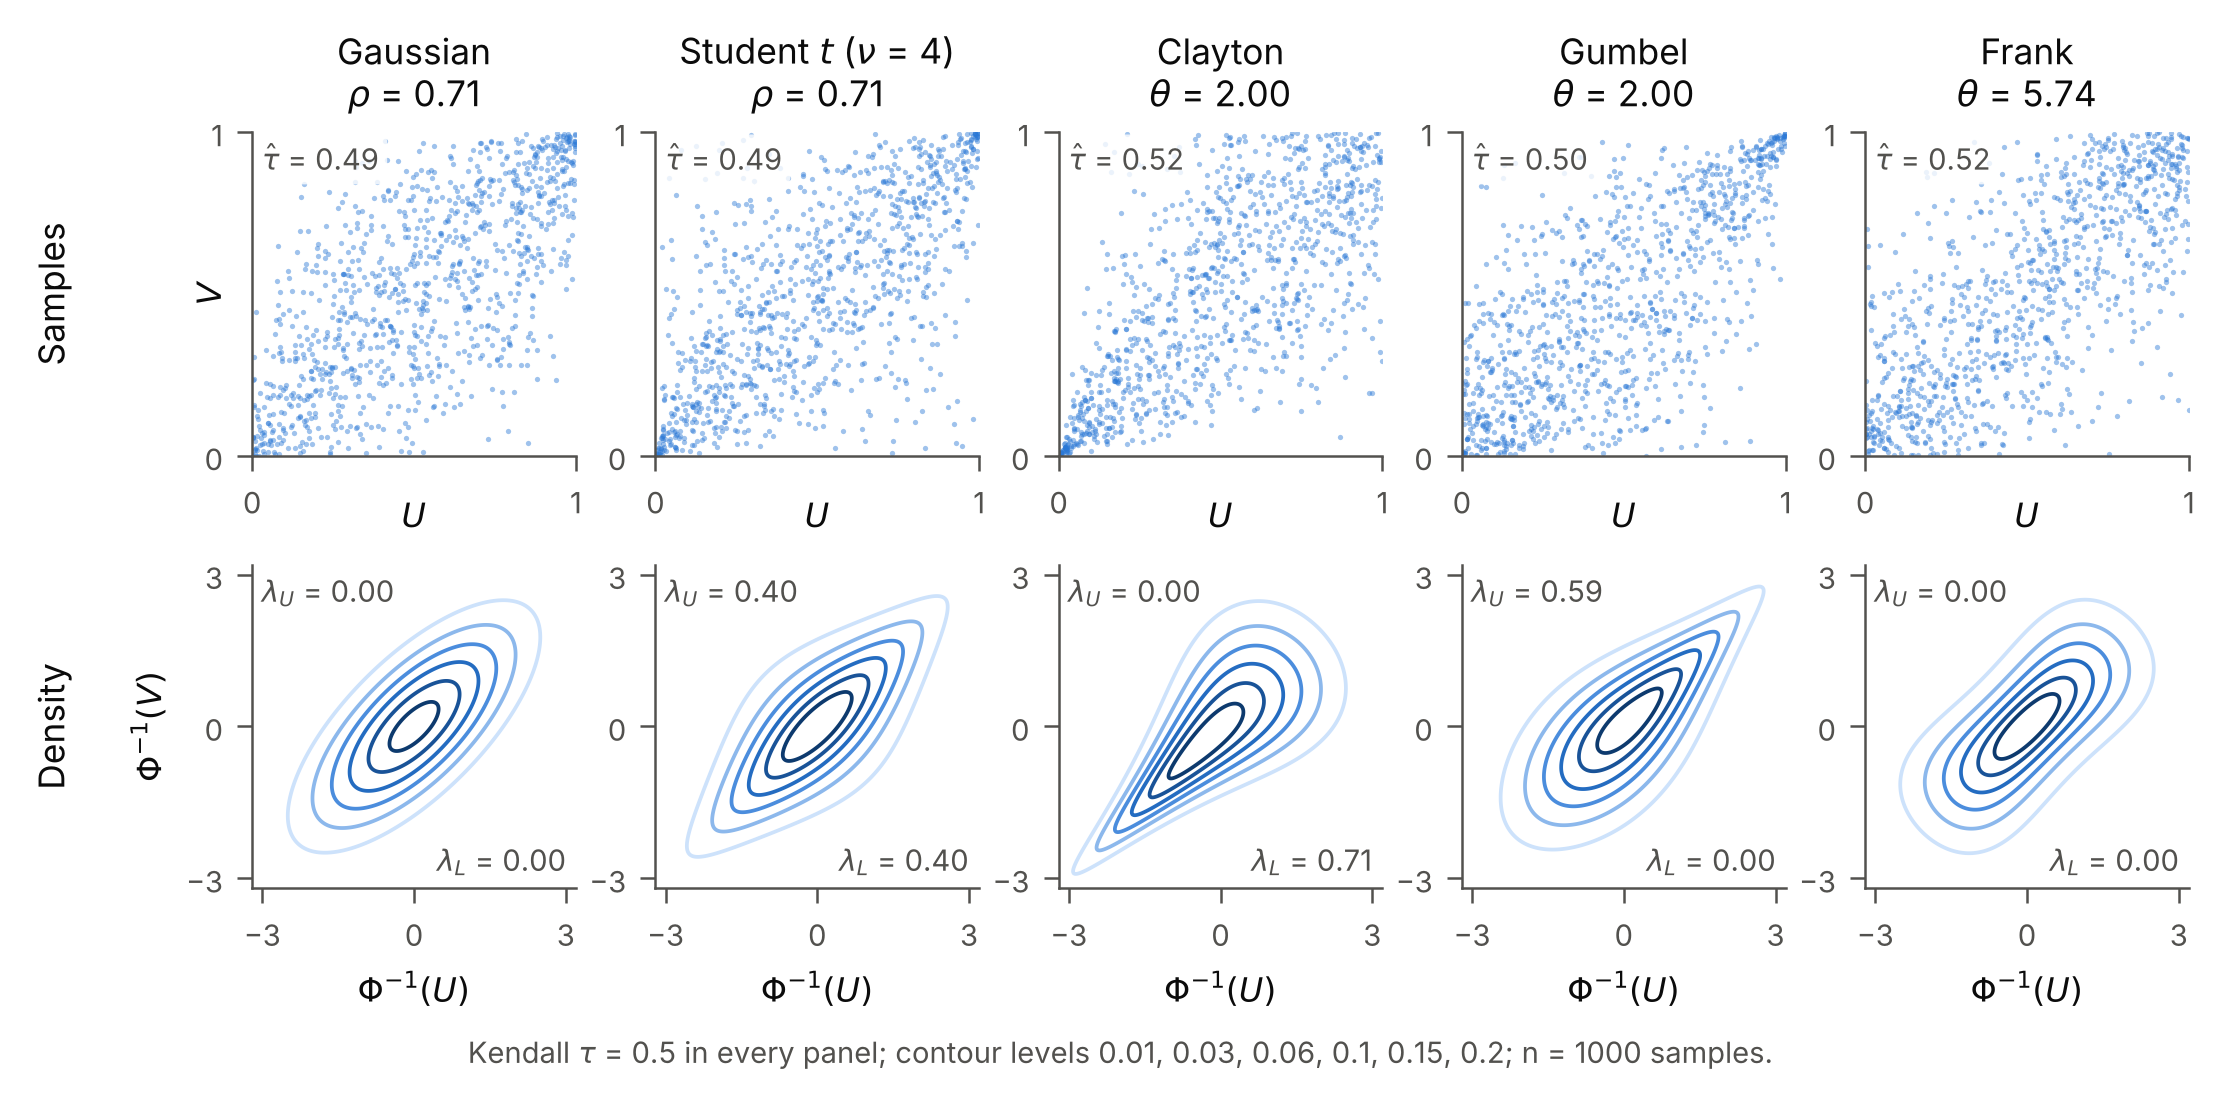
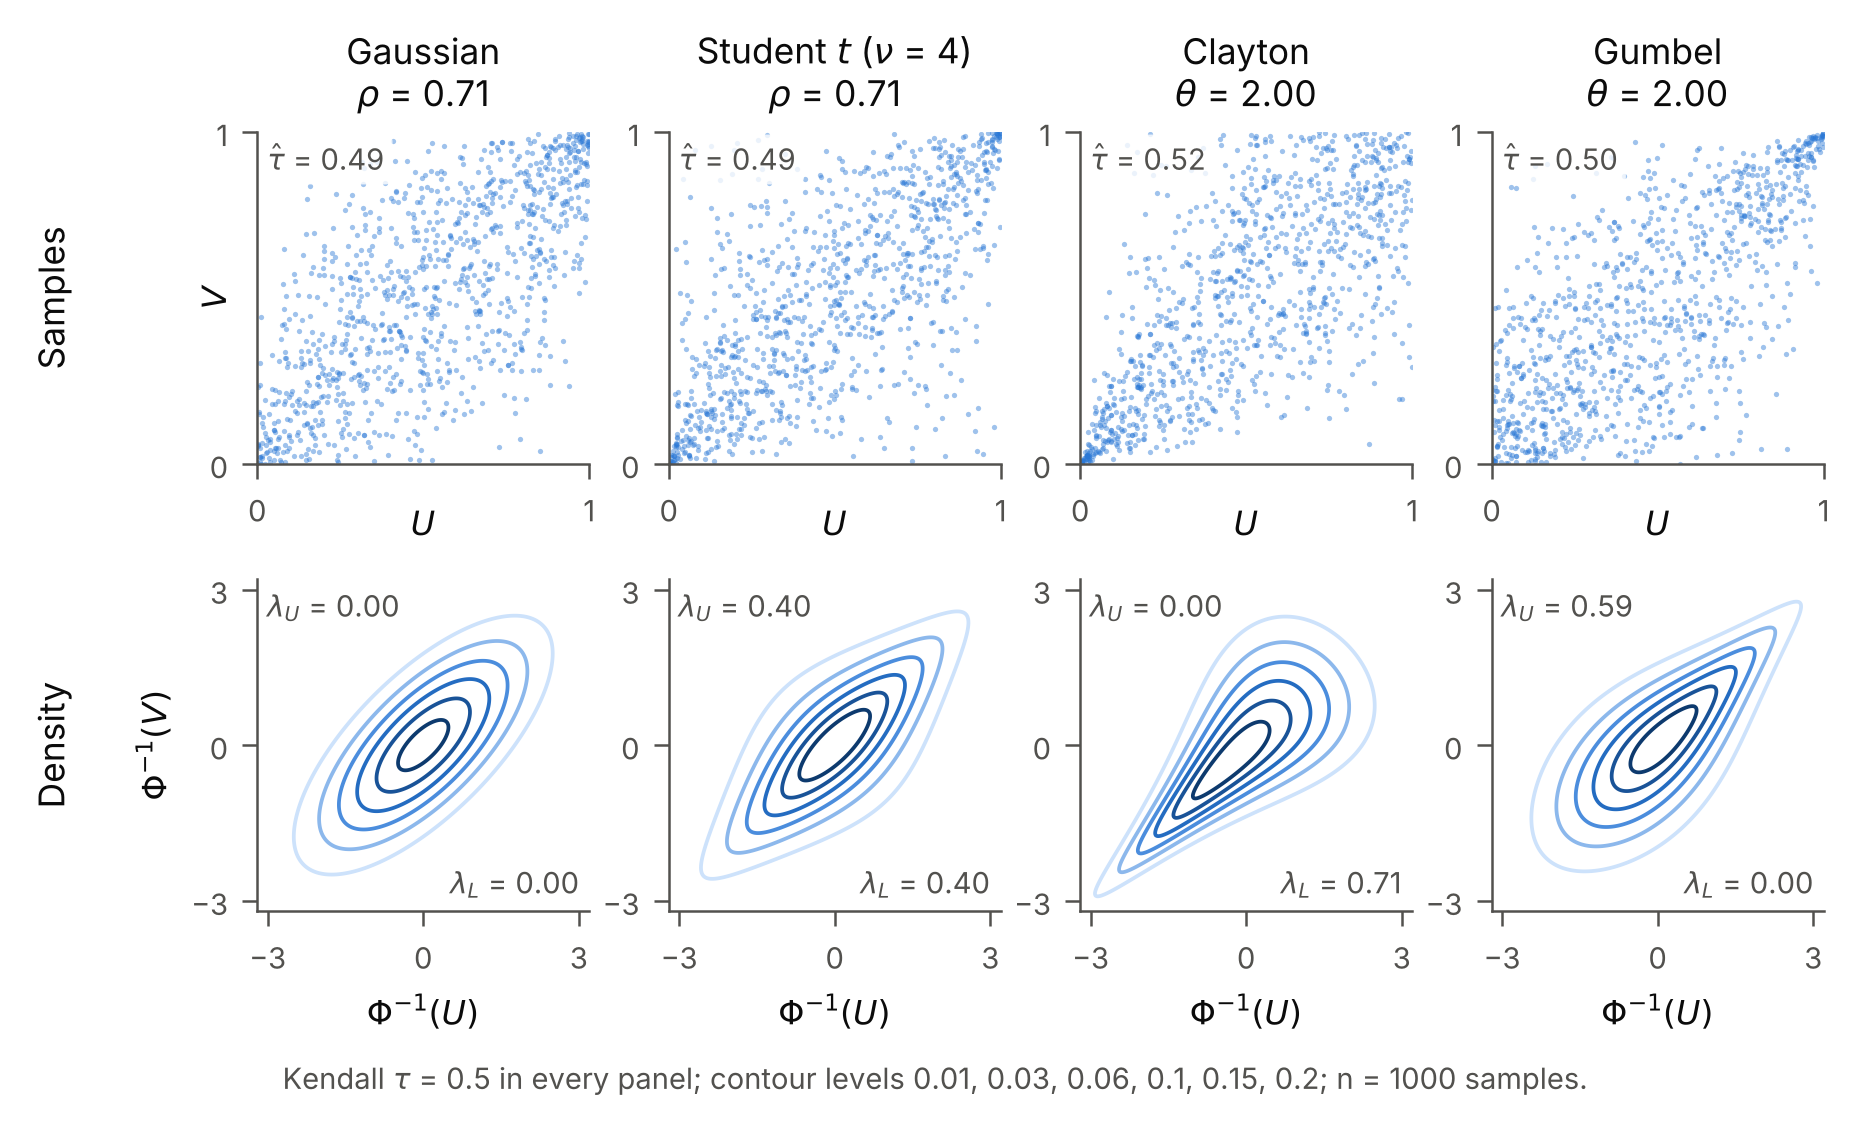
Drop the Frank copula from the Chapter 3 parametric figure
Claude-Session: https://claude.ai/code/session_011LH6MHfBJAMQDu7UQqGgRH

diff --git a/experiments/ch3-background/plot_ch3_parametric.py b/experiments/ch3-background/plot_ch3_parametric.py
@@ -1,9 +1,9 @@
-"""Chapter 3: the five parametric families of tab:copula-families at one Kendall tau: samples on the copula scale (top)
+"""Chapter 3: four parametric copula families at one Kendall tau: samples on the copula scale (top)
 and density contours on normal scores at common levels (bottom). Self-checks: each density integrates to 1 on the grid
 and each sample's tau matches the target. Writes images/ch3_parametric.png."""
 import matplotlib.pyplot as plt
 import numpy as np
-from scipy import integrate, optimize, stats
+from scipy import stats
 
 from ch3_style import INK, INK_2, MARK, note, save, scatter, tail_coefficients
 
@@ -14,11 +14,6 @@ SEED = 42
 LEVELS = [0.01, 0.03, 0.06, 0.10, 0.15, 0.20]
 
 
-def frank_tau(theta):
-    debye1 = integrate.quad(lambda t: t / np.expm1(t), 0, theta)[0] / theta
-    return 1 - 4 / theta * (1 - debye1)
-
-
 def params(tau):
     rho = np.sin(np.pi * tau / 2)
     return {
@@ -26,7 +21,6 @@ def params(tau):
         "student_t": rho,
         "clayton": 2 * tau / (1 - tau),
         "gumbel": 1 / (1 - tau),
-        "frank": optimize.brentq(lambda th: frank_tau(th) - tau, 1e-6, 100),
     }
 
 
@@ -47,10 +41,6 @@ def log_density(family, th, u, v):
         a = (x**th + y**th) ** (1 / th)
         return (-a - np.log(u) - np.log(v) + (th - 1) * np.log(x * y)
                 + (1 - 2 * th) * np.log(a) + np.log(a + th - 1))
-    if family == "frank":
-        e = -np.expm1(-th)
-        den = e - (-np.expm1(-th * u)) * (-np.expm1(-th * v))
-        return np.log(th * e) - th * (u + v) - 2 * np.log(den)
     raise ValueError(family)
 
 
@@ -73,10 +63,6 @@ def sample(family, th, n, rng):
         s = (np.sin(a * ang) / np.sin(ang) ** (1 / a)) * (np.sin((1 - a) * ang) / w) ** ((1 - a) / a)
         uv = np.exp(-((e / s) ** a))
         return uv[:, 0], uv[:, 1]
-    if family == "frank":  # conditional inversion
-        u, w = rng.uniform(size=n), rng.uniform(size=n)
-        v = -np.log1p(w * np.expm1(-th) / (w + (1 - w) * np.exp(-th * u))) / th
-        return u, v
     raise ValueError(family)
 
 
@@ -97,8 +83,7 @@ def fig_parametric():
     order = [("gaussian", "Gaussian", rf"$\rho$ = {th['gaussian']:.2f}"),
              ("student_t", rf"Student $t$ ($\nu$ = {NU:g})", rf"$\rho$ = {th['student_t']:.2f}"),
              ("clayton", "Clayton", rf"$\theta$ = {th['clayton']:.2f}"),
-             ("gumbel", "Gumbel", rf"$\theta$ = {th['gumbel']:.2f}"),
-             ("frank", "Frank", rf"$\theta$ = {th['frank']:.2f}")]
+             ("gumbel", "Gumbel", rf"$\theta$ = {th['gumbel']:.2f}")]
 
     lim = 3.2
     z = np.linspace(-lim, lim, 321)
@@ -107,7 +92,7 @@ def fig_parametric():
     ramp = plt.matplotlib.colors.LinearSegmentedColormap.from_list("seq", ["#cde2fb", MARK, "#0d3a6e"])
     shades = [ramp(i / (len(LEVELS) - 1)) for i in range(len(LEVELS))]
 
-    fig, axes = plt.subplots(2, 5, figsize=(7.4, 3.5))
+    fig, axes = plt.subplots(2, 4, figsize=(6.2, 3.6))
     for j, (key, title, ptxt) in enumerate(order):
         u, v = sample(key, th[key], N, rng)
         tau_hat = check(key, th[key], u, v)
